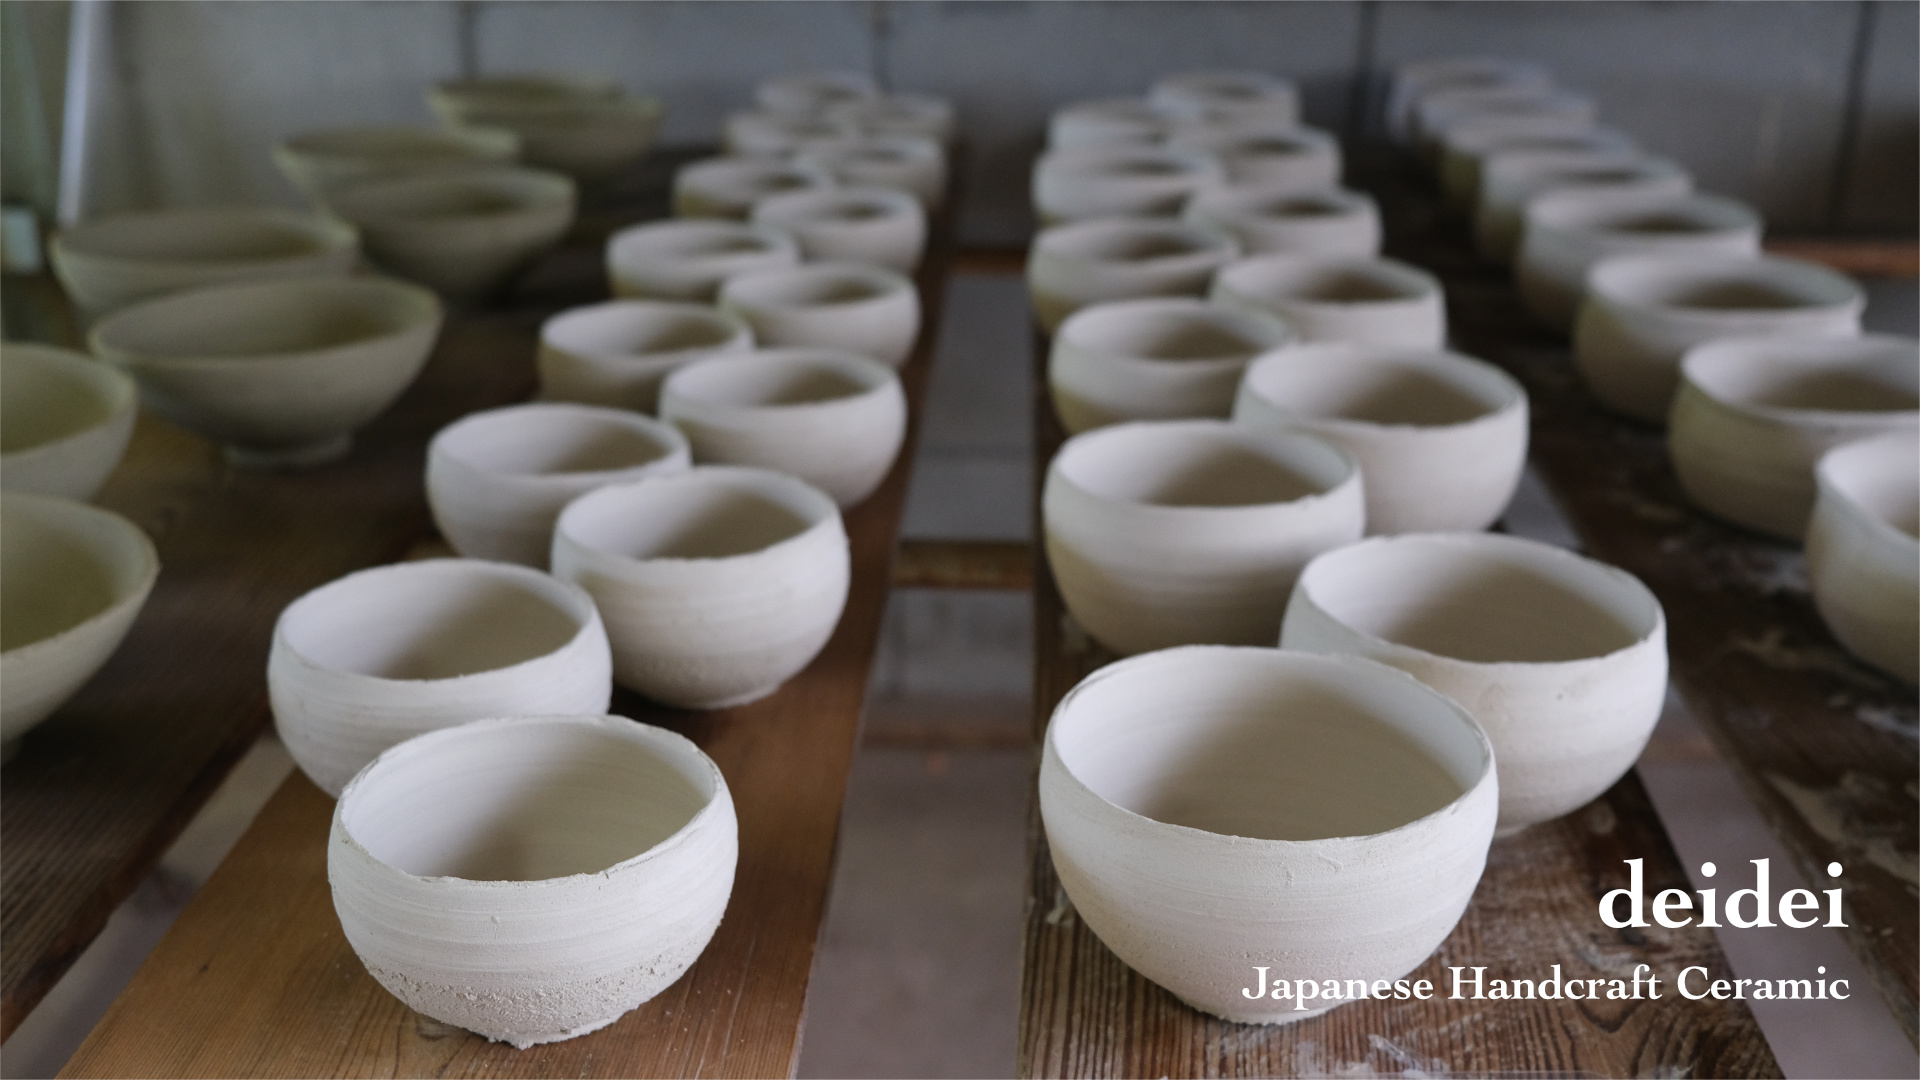
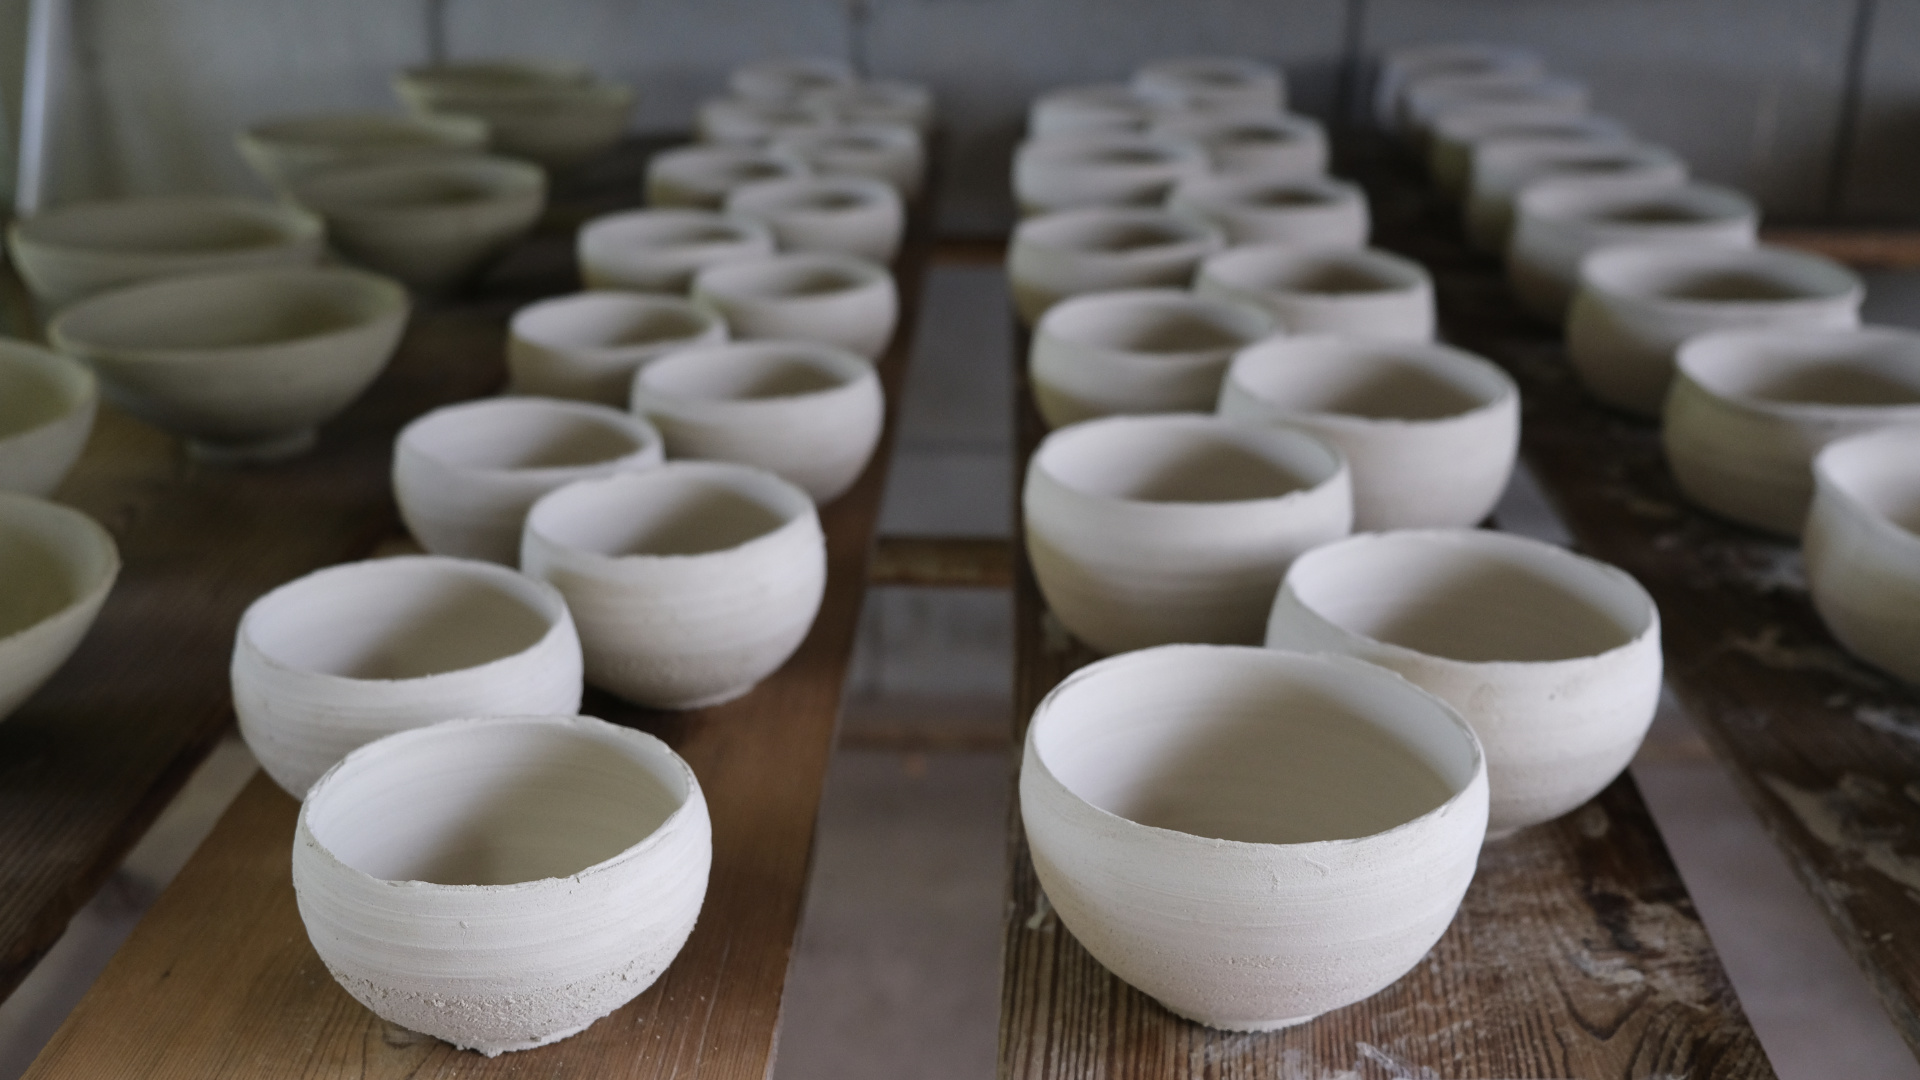
Enhance CarouselImage with alt text and SVG overlays
- Add alt_text and overlay_image fields to CarouselImage model
- Implement SVG overlay positioning (right-anchored, vertically centered)
- Restore full-width carousel behavior with object-cover
- Refactor CSS to isolate product gallery styles from home carousel
- Add translation support and admin previews for new carousel fields

diff --git a/templates/shop/home.html b/templates/shop/home.html
@@ -13,26 +13,34 @@
             <div class="splide__track">
                 <ul class="splide__list">
                     {% for item in carousel_images %}
-                    <li class="splide__slide flex items-center justify-center">
-                        {% if item.localized_link %}
-                        <a href="{{ item.localized_link }}" class="block w-full h-full">
-                            <img data-splide-lazy="{{ item.image.url }}" alt="" class="w-full h-full object-contain block">
-                        </a>
-                        {% else %}
-                        <img data-splide-lazy="{{ item.image.url }}" alt="" class="object-contain block">
-                        {% endif %}
+                    <li class="splide__slide">
+                        <div class="relative w-full h-full">
+                            {% if item.localized_link %}
+                            <a href="{{ item.localized_link }}" class="block w-full h-full relative">
+                                <img data-splide-lazy="{{ item.image.url }}" alt="{{ item.alt_text }}" class="w-full h-full object-cover block">
+                                {% if item.overlay_image %}
+                                <div class="absolute inset-y-0 right-[80px] z-10 flex items-center pointer-events-none">
+                                    <img src="{{ item.overlay_image.url }}" alt="" class="w-[200px] md:w-[300px] h-auto block">
+                                </div>
+                                {% endif %}
+                            </a>
+                            {% else %}
+                            <div class="relative w-full h-full">
+                                <img data-splide-lazy="{{ item.image.url }}" alt="{{ item.alt_text }}" class="w-full h-full object-cover block">
+                                {% if item.overlay_image %}
+                                <div class="absolute inset-y-0 right-[80px] z-10 flex items-center pointer-events-none">
+                                    <img src="{{ item.overlay_image.url }}" alt="" class="w-[200px] md:w-[300px] h-auto block">
+                                </div>
+                                {% endif %}
+                            </div>
+                            {% endif %}
+                        </div>
                     </li>
                     {% endfor %}
                 </ul>
             </div>
         </div>
     </section>
-
-    {# Centered Logo & Tagline #}
-    <div class="flex flex-col items-center justify-center py-12 mb-8">
-        <img src="{% static 'images/tetote_logo.svg' %}" alt="Tetote" class="w-48 md:w-64 mb-4">
-        <p class="text-brand-muted uppercase tracking-[0.3em] text-sm font-medium">{% translate "Japanese craft shop" %}</p>
-    </div>
     {% endif %}
 {% endblock %}
 

diff --git a/templates/shop/product_detail.html b/templates/shop/product_detail.html
@@ -21,7 +21,7 @@
                             <li class="splide__slide">
                                 <a href="{{ product.main_photo }}"
                                    target="_blank">
-                                    <img data-splide-lazy="{{ product.main_photo }}" alt="{{ product.name }}">
+                                    <img data-splide-lazy="{{ product.main_photo }}" alt="{{ product.name }}" class="product-gallery-img">
                                 </a>
                             </li>
                         {% endif %}
@@ -30,7 +30,7 @@
                             <li class="splide__slide">
                                 <a href="{{ image.image_url }}"
                                    target="_blank">
-                                    <img data-splide-lazy="{{ image.image_url }}" alt="{{ product.name }}">
+                                    <img data-splide-lazy="{{ image.image_url }}" alt="{{ product.name }}" class="product-gallery-img">
                                 </a>
                             </li>
                             {% endif %}

diff --git a/assets/css/input.css b/assets/css/input.css
@@ -176,7 +176,7 @@
   }
 
   /* Splide & Thumbnail Styles */
-  .splide__slide img {
+  .product-gallery-img {
     @apply block w-full aspect-square object-contain bg-[#fdfdfd];
   }
   .pswp-gallery .splide__slide img {

diff --git a/shop/migrations/0027_carouselimage_alt_text_carouselimage_alt_text_de_and_more.py b/shop/migrations/0027_carouselimage_alt_text_carouselimage_alt_text_de_and_more.py
@@ -1,0 +1,56 @@
+# Generated by Django 6.0.5 on 2026-06-08 19:59
+
+from django.db import migrations, models
+
+
+class Migration(migrations.Migration):
+    dependencies = [
+        ("shop", "0026_remove_carouselimage_is_active"),
+    ]
+
+    operations = [
+        migrations.AddField(
+            model_name="carouselimage",
+            name="alt_text",
+            field=models.CharField(blank=True, max_length=255, verbose_name="Alt Text"),
+        ),
+        migrations.AddField(
+            model_name="carouselimage",
+            name="alt_text_de",
+            field=models.CharField(
+                blank=True, max_length=255, null=True, verbose_name="Alt Text"
+            ),
+        ),
+        migrations.AddField(
+            model_name="carouselimage",
+            name="alt_text_en",
+            field=models.CharField(
+                blank=True, max_length=255, null=True, verbose_name="Alt Text"
+            ),
+        ),
+        migrations.AddField(
+            model_name="carouselimage",
+            name="alt_text_fr",
+            field=models.CharField(
+                blank=True, max_length=255, null=True, verbose_name="Alt Text"
+            ),
+        ),
+        migrations.AddField(
+            model_name="carouselimage",
+            name="alt_text_ja",
+            field=models.CharField(
+                blank=True, max_length=255, null=True, verbose_name="Alt Text"
+            ),
+        ),
+        migrations.AddField(
+            model_name="carouselimage",
+            name="overlay_image",
+            field=models.FileField(
+                blank=True,
+                help_text="Optional SVG overlay centered horizontally and stuck to the right.",
+                null=True,
+                upload_to="carousel/overlays/",
+                verbose_name="Overlay Image",
+            ),
+        ),
+    ]

diff --git a/shop/translation.py b/shop/translation.py
@@ -1,5 +1,12 @@
 from modeltranslation.translator import register, TranslationOptions
-from .models import Brand, Product, Glaze, ProductType, StoreAnnouncement
+from .models import (
+    Brand,
+    Product,
+    Glaze,
+    ProductType,
+    StoreAnnouncement,
+    CarouselImage,
+)
 
 
 @register(Brand)
@@ -25,3 +32,8 @@ class ProductTranslationOptions(TranslationOptions):
 @register(StoreAnnouncement)
 class StoreAnnouncementTranslationOptions(TranslationOptions):
     fields = ("text",)
+
+
+@register(CarouselImage)
+class CarouselImageTranslationOptions(TranslationOptions):
+    fields = ("alt_text",)

diff --git a/shop/tests.py b/shop/tests.py
@@ -31,9 +31,13 @@ class HomeViewTests(TestCase):
             is_draft=True,
         )
 
-        # Create a carousel image
+        # Create a carousel image with alt text and overlay
         image_content = b"GIF89a\x01\x00\x01\x00\x80\x00\x00\x00\x00\x00\xff\xff\xff!\xf9\x04\x01\x00\x00\x00\x00,\x00\x00\x00\x00\x01\x00\x01\x00\x00\x02\x01D\x00;"
-        CarouselImage.objects.create(image=ContentFile(image_content, name="c1.gif"))
+        CarouselImage.objects.create(
+            image=ContentFile(image_content, name="c1.gif"),
+            alt_text_en="Beautiful Vase",
+            overlay_image=ContentFile(b"<svg></svg>", name="overlay.svg"),
+        )
 
         url = reverse("shop:home")
         response = self.client.get(url)
@@ -42,6 +46,9 @@ class HomeViewTests(TestCase):
         self.assertNotContains(response, "Draft News")
         self.assertContains(response, "splide__slide")
         self.assertContains(response, "carousel/c1")
+        self.assertContains(response, "Beautiful Vase")
+        self.assertContains(response, "overlay")
+        self.assertContains(response, ".svg")
         self.assertContains(response, reverse("shop:product_list"))
         self.assertContains(response, "Enter the Shop")
 

diff --git a/shop/models.py b/shop/models.py
@@ -183,6 +183,16 @@ class StoreSettings(models.Model):
 
 class CarouselImage(models.Model):
     image = models.ImageField(_("Image"), upload_to="carousel/")
+    alt_text = models.CharField(_("Alt Text"), max_length=255, blank=True)
+    overlay_image = models.FileField(
+        _("Overlay Image"),
+        upload_to="carousel/overlays/",
+        blank=True,
+        null=True,
+        help_text=_(
+            "Optional SVG overlay centered horizontally and stuck to the right."
+        ),
+    )
     link = models.CharField(
         _("Link"),
         max_length=500,

diff --git a/shop/admin.py b/shop/admin.py
@@ -69,8 +69,8 @@ class StoreAnnouncementAdmin(TranslationAdmin):
 
 
 @admin.register(CarouselImage)
-class CarouselImageAdmin(SortableAdminMixin, admin.ModelAdmin):
-    list_display = ("image_preview", "created_at")
+class CarouselImageAdmin(SortableAdminMixin, TabbedTranslationAdmin):
+    list_display = ("image_preview", "alt_text", "created_at")
     list_filter = ()
 
     def image_preview(self, obj):